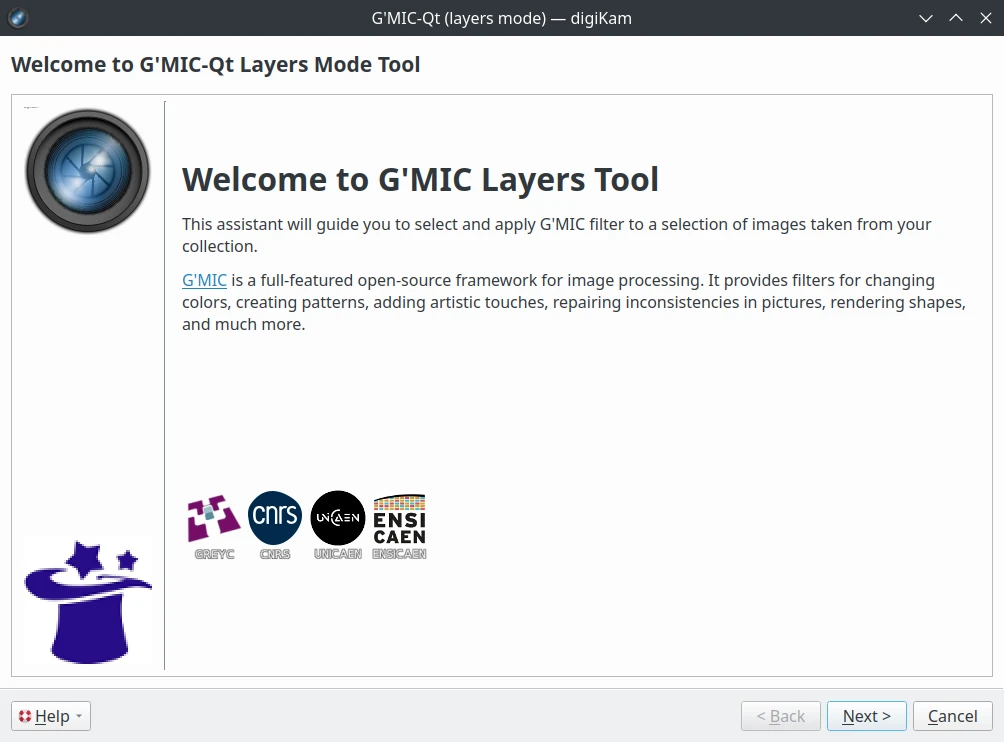
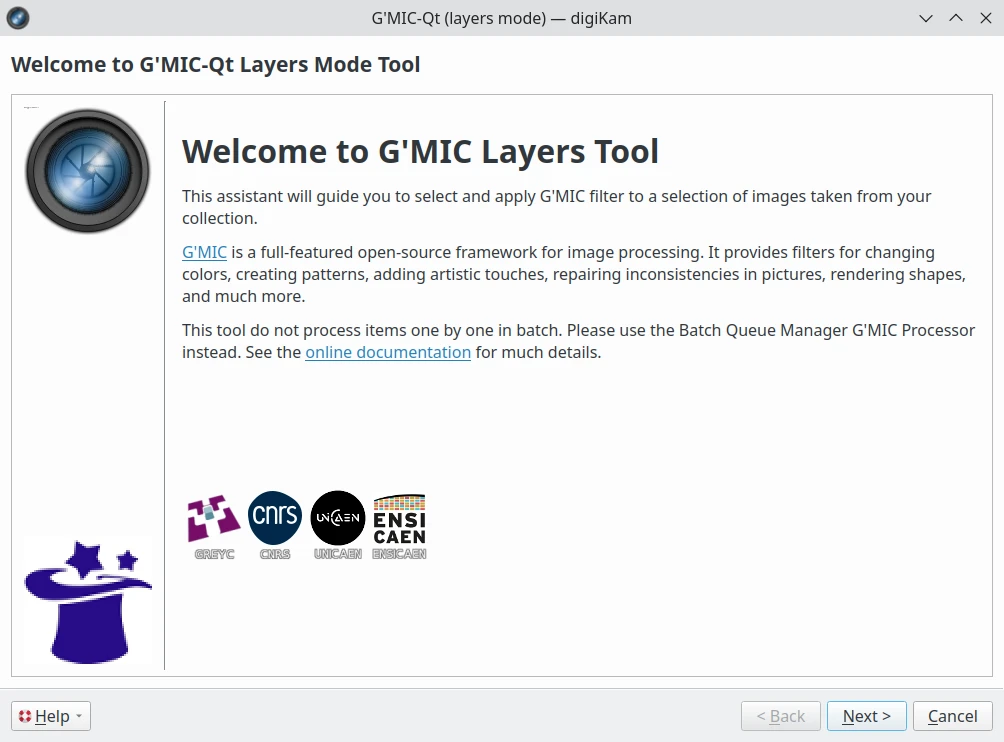
update

Changed region(s): [[0.1853, 0.186, 0.9572, 0.496], [0.0, 0.0, 1.0, 0.062]]

diff --git a/image_editor/enhancement_tools.rst b/image_editor/enhancement_tools.rst
@@ -900,6 +900,10 @@ Layers Mode Tool
 
 The G'MIC-Qt tool is available to run over a stack of images to assemble items together for example. This tool version is available from the :menuselection:`Tools --> G'MIC-Qt (layers)` menu entry or use the icons accessible from the Tools tab in the Right sidebar.
 
+.. note::
+
+    This tool do not process items one by one in batch. Please use the Batch Queue Manager :ref:`G'MIC Processor <bqm_gmictools>` instead.
+
 Open files to process together in Image Editor and start the **G'MIC-Qt (layers)** tool.
 
 .. figure:: images/editor_gmicqt_layers_menu.webp
